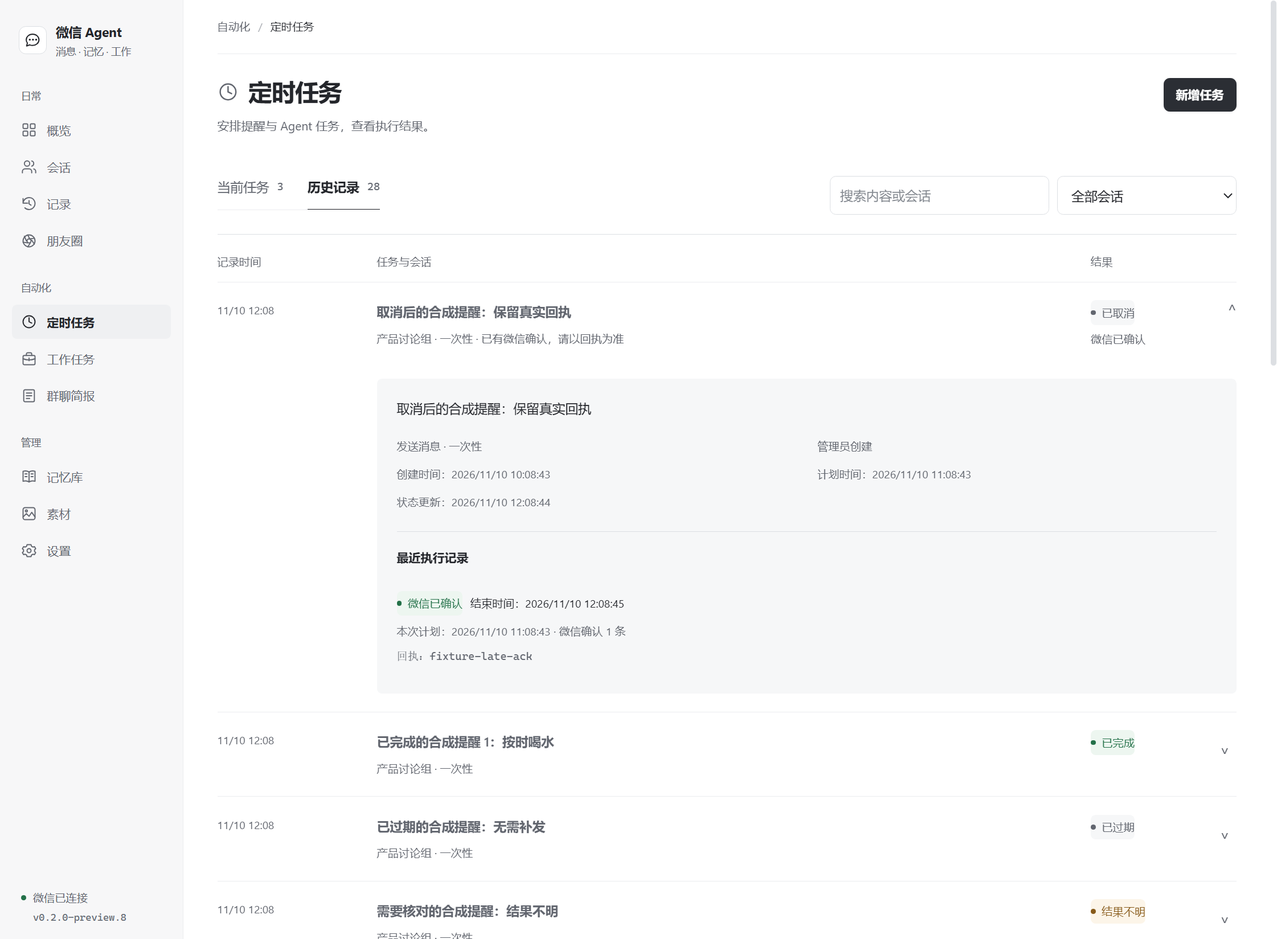
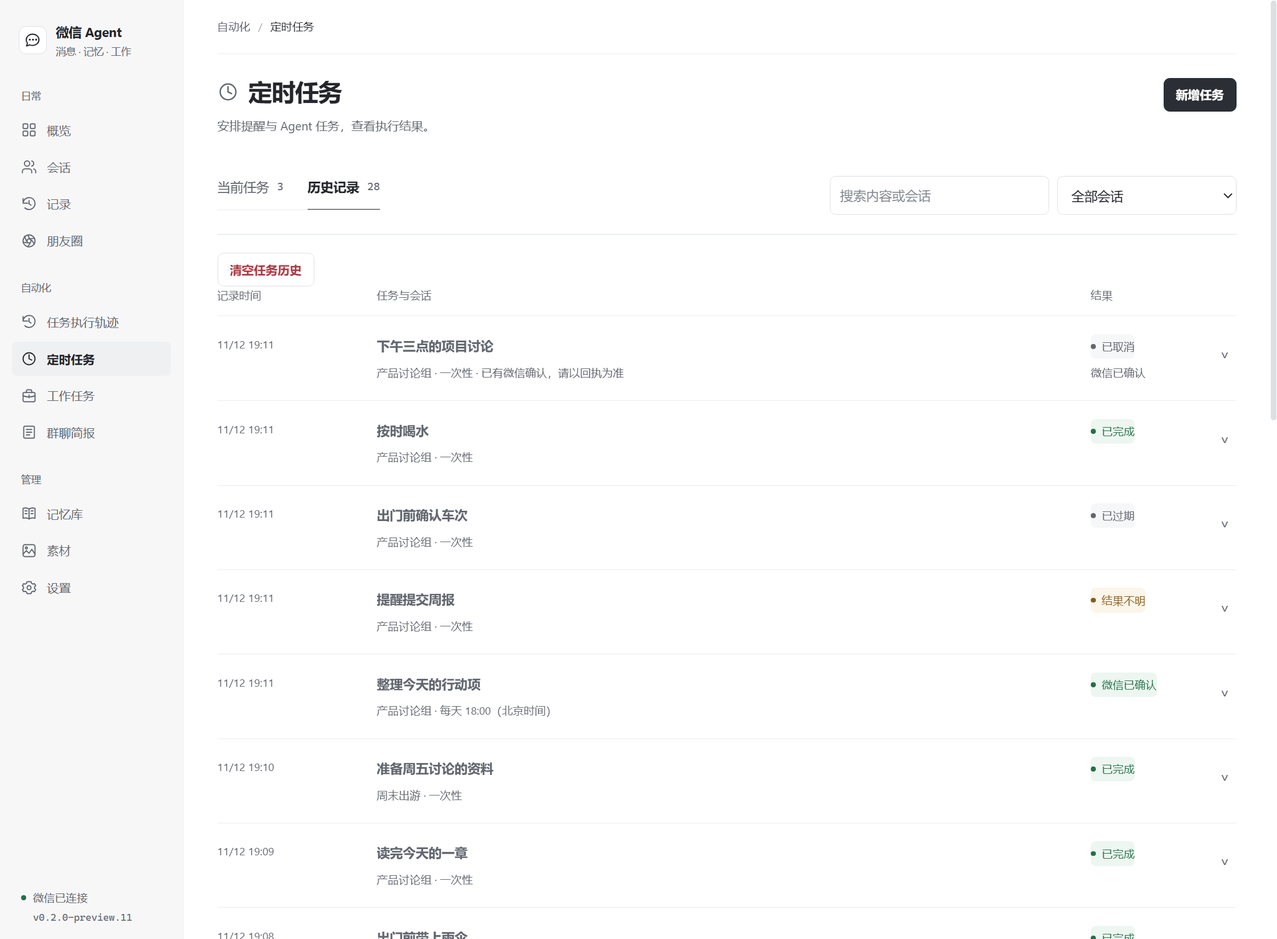
docs: refresh preview.11 README, screenshots and market index

diff --git a/README.md b/README.md
@@ -1,164 +1,149 @@
-<div align="center">
+# 微信 Agent
 
-<img src="https://raw.githubusercontent.com/Bozheng-Li/dsh-Wechat-Agent/main/docs/images/hero.svg" alt="微信 Agent — 把人设、记忆与提醒带进微信" width="100%" />
-
-**把 DSH 的模型、自然接话的助手和持久记忆，带进微信会话。**
+把 DSH 助手接入微信：自然聊天、记住已授权的人、执行工作任务，并管理提醒与朋友圈。
 
 [![npm](https://img.shields.io/npm/v/dsh-plugin-wechat-agent?style=flat-square&color=168b70&label=npm)](https://www.npmjs.com/package/dsh-plugin-wechat-agent)
 [![Plugin checks](https://github.com/Bozheng-Li/dsh-Wechat-Agent/actions/workflows/ci.yml/badge.svg?branch=main)](https://github.com/Bozheng-Li/dsh-Wechat-Agent/actions/workflows/ci.yml)
-[![License](https://img.shields.io/github/license/Bozheng-Li/dsh-Wechat-Agent?style=flat-square&color=536c63)](https://github.com/Bozheng-Li/dsh-Wechat-Agent/blob/main/LICENSE)
+[![License](https://img.shields.io/github/license/Bozheng-Li/dsh-Wechat-Agent?style=flat-square)](LICENSE)
 
-[开始使用](#开始使用) · [使用指南](https://github.com/Bozheng-Li/dsh-Wechat-Agent/blob/main/docs/USER-GUIDE.md) · [更新日志](https://github.com/Bozheng-Li/dsh-Wechat-Agent/blob/main/CHANGELOG.md) · [反馈问题](https://github.com/Bozheng-Li/dsh-Wechat-Agent/issues)
+当前版本 **0.2.0-preview.11** · **Windows x64** · **DeepSeek Harness 0.2.1-rc.5**
 
-</div>
+[开始使用](#开始使用) · [使用指南](docs/USER-GUIDE.md) · [更新日志](CHANGELOG.md) · [安装包](https://github.com/Bozheng-Li/dsh-Wechat-Agent/releases/tag/v0.2.0-preview.11) · [反馈问题](https://github.com/Bozheng-Li/dsh-Wechat-Agent/issues)
 
-<details>
-<summary><strong>更新记录 · 0.2.0-preview.11 · 2026-11-12（点击展开）</strong></summary>
+<img src="https://raw.githubusercontent.com/Bozheng-Li/dsh-Wechat-Agent/main/docs/images/studio-overview-light.png" alt="preview.11 工作台：微信连接、自动回复、授权会话、处理队列和常用入口" width="100%" />
 
-### 0.2.0-preview.11 · 2026-11-12
+_preview.11 的实际界面，使用隔离的示例账号与内容。_
 
-- 所有功能统一检查对象授权；取消授权后自动清理相关本机资料，启动时补齐历史清理，清理失败保留原因和重试。
-- 人物卡仅在有实际资料时创建，按微信标签分组并优先显示资料较多的人；群授权不扩展为成员的私聊或人物资料授权。
-- 新增“设置 → 自动功能”、统一时间设置、执行倒计时与任务轨迹，工作任务支持开工确认和阶段进度。
-- 同步微信收藏与聊天表情；朋友圈多图分批识别，图片部分失败时依据可用图片或真实正文继续处理。
-- 修复启动清理的配置错误、未处理异步异常和组件握手超时；优化会话定位与后台记忆巡检。
+## 现在可以做什么
 
-### 0.2.0-preview.10 · 2026-11-11
-
-- 朋友圈生成与发布统一最多等待 1 小时，页面可主动停止；聊天触发发布也不再被普通聊天时限提前打断。
-- 生图失败、图片丢失或联网取材失败时回退到可独立阅读的纯文字，保留原因；取消和未知回执不会触发重发。
-- 修复主题名称必须逐字匹配导致正常选题被拒绝的问题。
-
-### 0.2.0-preview.9 · 2026-11-11
-
-- 统一默认助手，Agent 根据聊天自动维护每个人的角色卡；私聊、群聊和朋友圈共享称呼、喜好与有来源的长期信息，后台更新不阻塞聊天。
-- 上下文和工具按需加载；会话图片与生成图片独立保存，可按普通文字追问最近已发图片。
-- 工作模式支持独立任务、继续与取消、文件成果和多接口生图；复杂公开事实可主动检索并在接口失败时回退。
-- 朋友圈整合素材、发布计划、点赞和定时回复，支持接续好友评论对话，并按真实回执核对发布与删除状态。
-- 更新明暗工作台、窄窗口布局和按勾选批量授权；清理已结束的实验脚本，修复图片跨轮次时间限制。
-
-### 0.2.0-preview.8 · 2026-11-08
-
-- 修复保存的人设与恢复会话上下文，加入模型推理强度选择、相关记忆筛选和后台压缩。
-- 更新工作台与记忆页面，移除知识库功能，保留已有本地资料。
-
-[完整更新日志](https://github.com/Bozheng-Li/dsh-Wechat-Agent/blob/main/CHANGELOG.md) · [GitHub 安装包](https://github.com/Bozheng-Li/dsh-Wechat-Agent/releases/tag/v0.2.0-preview.11) · [npm 版本](https://www.npmjs.com/package/dsh-plugin-wechat-agent/v/0.2.0-preview.11)
-
-</details>
-
-## 一个伙伴，多种相处方式
-
-所有会话共用一位默认助手：日常自然接话，工作时把事情说清楚。保留一个全局自定义入口，各会话分别设置参与方式、保存记忆，也能在约定的时间提醒你。
-
-| 能力 | 你可以这样用 |
+| 能力 | 当前用法 |
 | --- | --- |
-| **默认助手** | 在全局设置中自定义名字、唤醒词和表达偏好，所有会话共用。 |
-| **共同的身份与语言** | 全局身份保存共同约定；所有对外回复遵守同一份语言边界，减少机械开场、空泛夸奖和客服式收尾。 |
-| **人物角色卡与记忆** | 按微信身份共享一张人物卡，后台 Agent 自动总结称呼、喜好与长期资料；有实际资料才建卡，按微信标签分组并按资料项数排序；仅使用已授权人物的资料。 |
-| **按需上下文** | 近期对话接住上下文，旧事实、图片笔记和工具说明按需要查询与展开；保留管理员的明确约定。 |
-| **自然加入群聊** | 保留 @、`/agent`、昵称与数量设置，结合时间、话题和互动反馈择机参与，逐群控制。 |
-| **图片记忆** | 会话图片与生成图片独立保存，短句追问可接上最近已确认发出的图片。 |
-| **看图与表情回复** | 普通图片按需查看；同步微信收藏、收集聊天表情，保存含义与使用情景，由模型自然选择原生表情回复。 |
-| **把约定变成提醒** | 聊天中安排一次、每天或间隔任务，到期在授权会话发送消息，并真正 @ 群成员。 |
-| **查资料，带上来源** | 复杂或有时效性的公开事实可主动检索；支持 Tavily 与 DeepSeek 原生搜索，默认接口失败时尝试已配置的备用接口。 |
-| **工作模式** | 明确委托后使用独立 DSH 工作会话，支持并行任务、查询、继续、取消和文件成果；需要聊天依据时按当前会话范围查询，执行与送达状态分别记录。 |
-| **生图 API** | 配置多家兼容 `/images/generations` 的接口、模型与独立密钥，按指定接口生成并回传图片；保存实际提示词、图片原件与送达回执。 |
-| **管理员远程查询** | 添加全局或会话管理员，授权后通过聊天查看电脑与 DSH 任务状态，或连接已配置的远程环境。 |
-| **朋友圈** | 查看动态与评论，安排发布、点赞和回复；可分别开启回复自己动态的评论与接续好友评论对话。发布、屏蔽范围和删除均可按真实回执核对。 |
-| **朋友圈素材库** | 保存随手记、图片与聊天启发，支持取材、整理和更新想法；到发布时间再选择可用内容，检查隐私、停用、到期、已用和删除状态。详见[使用说明](docs/USER-GUIDE.md)。 |
+| 自然聊天 | 日常聊天共用默认助手和全局身份；已授权私聊直接提问，群聊可选 @、昵称唤醒、按消息条数参与或自然陪聊。 |
+| 人物与记忆 | 根据已授权的聊天和朋友圈原文整理人物卡，按微信标签分组；保留来源和纠正，会话记忆、收到的图片与生成的图片分别管理。 |
+| 工作任务 | 已授权管理员通过微信委托 DSH 执行工作；支持新建、继续、并行、查询和取消，回传文字、图片与本机文件成果。 |
+| 定时任务与群聊简报 | 安排一次、每日或间隔提醒，支持真实 @ 群成员；按配置整理群聊简报，查看下次执行时间和历史结果。 |
+| 朋友圈 | 查看动态与评论，整理素材、生成草稿和安排发布；分别管理好友点赞、自动互动、评论回复与对话接续。 |
+| 图片、表情与搜索 | 按需看图，同步微信收藏和聊天表情；配置图片生成接口，以及 Tavily 或 DeepSeek 原生搜索。 |
+| 执行与回执 | 工作台看运行状态，任务轨迹看模型和工具过程，处理记录核对微信回执；区分执行完成、已送达和结果不明。 |
+
+preview.11 的重点是**对象授权与清理、人物卡标签分组、自动功能集中设置、统一时间设置和任务轨迹**。完整变化与验证范围见 [CHANGELOG](CHANGELOG.md)。
 
 ## 开始使用
 
-本页对应 **`0.2.0-preview.11`**，支持 **Windows x64 · DeepSeek Harness `0.2.1-rc.5`**。模型使用你在 DSH 中配置的服务。
+先安装并配置 **DeepSeek Harness 0.2.1-rc.5**。插件使用 DSH 中配置的模型服务；完整安装包包含微信认证组件、Python 与固定版本依赖。
 
-当前源码整合全局人物角色卡、分层记忆、按需上下文、图片记忆、工作模式和朋友圈自动化。模型仍可能补写事实或未完整遵守人设，具体限制见[使用指南](docs/USER-GUIDE.md#当前版本与已知限制)，版本历史可展开上方更新记录。
-
-在 DSH 插件管理页输入 `dsh-plugin-wechat-agent` 安装，或在 PowerShell 执行：
+在 DSH 插件管理页添加 `dsh-plugin-wechat-agent`。如果已安装 DSH 命令行，也可以在 PowerShell 指定本版：
 
 ```powershell
 dsh plugin --profile desktop add dsh-plugin-wechat-agent@0.2.0-preview.11
 ```
 
-完整 npm 包包含微信认证组件、Python 与依赖，安装后即可打开侧栏 **微信 Agent**。[GitHub Releases](https://github.com/Bozheng-Li/dsh-Wechat-Agent/releases/tag/v0.2.0-preview.11) 提供相同安装包及 SHA-256 校验文件。
+[npm](https://www.npmjs.com/package/dsh-plugin-wechat-agent/v/0.2.0-preview.11) 与 [GitHub Releases](https://github.com/Bozheng-Li/dsh-Wechat-Agent/releases/tag/v0.2.0-preview.11) 提供同一份完整安装包，Release 附有 SHA-256 校验文件。
 
-1. **扫码连接** — 用手机微信扫码并确认。
-2. **设置助手与模型** — 选择 DSH 模型及其支持的推理强度，在“默认助手”中编辑所有会话共用的设定。
-3. **授权会话** — 按微信名、备注或群名查找，选中会话，再到“设置 → 自动功能”开启自动回复。
-
-首次安装的自动回复默认关闭，由你选择会话授权范围；表情库使用账号自己的微信收藏与聊天表情。
-
-业务设置统一保存在工作目录的 `config.yaml`，人设和全局身份正文位于 `prompts/`。旧配置首次加载时备份并迁移，原授权和记录保留；统一为默认助手前会备份旧人设，之后的全局自定义内容不重复重置。外部修改 YAML 或它引用的人设文件后重新启用插件生效。源码维护入口见 [代码结构说明](docs/CODE-STRUCTURE.md)。
+1. **扫码连接**：打开 DSH 侧栏“微信 Agent”，用手机微信扫码并确认。
+2. **设置助手**：在“设置 → 模型设置”选择回复模型；在“默认助手”和“全局身份”填写名字、表达偏好与共同约定。
+3. **选择授权范围**：打开侧栏“会话”，按微信名、备注或群名查找，选择需要的会话并授权。
+4. **开启自动回复**：进入“设置 → 自动功能”打开总开关，再在单个会话中设置回复模式。首次安装默认关闭自动回复。
+5. **按需开启其他能力**：朋友圈、人物整理和图片记忆各有独立设置；工作模式还需要管理员身份和会话远程查询权限。
 
 <details>
-<summary>通过 DSH 自定义插件市场搜索安装</summary>
+<summary>通过自定义插件市场安装或升级</summary>
 
-在“插件 → 实验性插件 → 更多 → 自定义插件市场”添加以下索引，搜索“微信”或 `wechat` 安装：
+在 DSH 的“插件 → 实验性插件 → 更多 → 自定义插件市场”添加以下索引，再搜索“微信”或 `wechat`：
 
 ```text
 https://raw.githubusercontent.com/Bozheng-Li/dsh-Wechat-Agent/main/market/index.json
 ```
 
-DSH `0.2.1-rc.5` 使用用户添加的自定义索引。索引提供版本目录，完整插件从 npm 下载。
-
-发布新版后，需要重新加载插件市场中的版本列表，再选择新版本安装或升级。已安装的插件不会因 GitHub 更新而自动替换；npm 的 `latest` 标签与市场索引都在安装包发布并校验后更新。如果仍显示旧版，可使用上面的明确版本命令安装本版。
+市场索引提供版本目录，插件本体从 npm 下载。发布后重新加载市场的版本列表，再选择新版本安装或升级。
 
 </details>
 
-升级提醒：本版会按当前授权自动补清理历史未授权对象的本机资料。需要保留的人物请在升级前核对并补齐私聊授权；群聊授权不包含群成员的个人资料。取消授权会永久清理相关本机记忆、任务和记录，重新授权从新资料开始。
+**升级与版本核对。** 仓库推送后，已安装插件仍使用原版本。刷新插件市场的版本列表并完成升级，再到“设置 → 更新日志”核对实际版本。本版 npm 的 `latest`、`next` 和市场索引均已更新；也可使用上面的命令直接安装 `@0.2.0-preview.11`。
 
-## 日常使用，在一个工作台里
+**升级前核对授权。** 本版启动时会补清理历史未授权对象的本机资料；群聊授权不包含群成员的私聊、个人资料或朋友圈操作权限。需要保留的人物，请先核对其私聊授权。取消授权会停止相关操作并清理本机记忆、任务、素材及关联记录；重新授权从新资料开始。仅关闭自动回复总开关会暂停执行，保留有效授权与资料。
 
-连接、会话、记录、朋友圈、定时任务、工作、简报、记忆、素材和设置使用中性明暗主题。页面按内容组织：记录是连续数据行，记忆是文档，素材是图库，任务突出成果与执行过程，设置使用分组表单。颜色用于区分处理中、已完成、待核对与失败，状态保留文字。窄窗口通过可展开目录切换页面，支持键盘操作，动效跟随系统的“减少动态效果”设置。
+## 当前工作台
 
-<img src="https://raw.githubusercontent.com/Bozheng-Li/dsh-Wechat-Agent/main/docs/images/studio-overview-light.png" alt="工作台：当前微信账号、回复状态、配置与常用工作区" width="100%" />
+侧栏按“日常、自动化、管理”分组，支持明暗主题和窄窗口导航。
 
-“设置 → 自动功能”集中管理自动回复、朋友圈自动操作、表情收集、人物整理与图片记忆保存；“设置 → 时间设置”统一调整周期和等待时限。任务与自动安排显示倒计时，执行轨迹用于核对模型、工具和回执。
+| 分组 | 页面 | 用途 |
+| --- | --- | --- |
+| 日常 | 概览、会话、记录、朋友圈 | 连接账号、授权会话、核对回复和管理动态。 |
+| 自动化 | 任务执行轨迹、定时任务、工作任务、群聊简报 | 查看执行过程，管理提醒、委托与简报。 |
+| 管理 | 记忆库、素材、设置 | 查看人物与来源，管理表情图片、模型、管理员和工作目录。 |
 
-## 全局共用助手，记忆各有归属
+“设置 → 自动功能”集中管理开关与规则；“设置 → 时间设置”集中管理执行间隔、活跃时段、超时和保存期限。各组独立保存，账号和会话的设置范围在页面中标明。提醒日期与发布计划的具体时间仍在对应任务中编辑。
 
-默认助手保留一个全局自定义编辑入口，恢复默认正文先修改草稿，保存后才生效。人物角色卡由独立后台 Agent 根据授权聊天自动填写，保存称呼、关系、喜好与逐字来源；同一微信身份跨私聊、群聊和朋友圈共用一份。新称呼、更正、累计新消息和定期检查会触发整理，也可通过工具安排更新。管理页面用于查看依据、手动触发整理和纠正资料。仅姓名或发言记录不单独建卡；有资料的人按微信真实标签分组，无标签的人进入“未标签”，默认资料较多的在前。
+<img src="https://raw.githubusercontent.com/Bozheng-Li/dsh-Wechat-Agent/main/docs/images/studio-automation-light.png" alt="自动功能设置：自动回复总开关、朋友圈、聊天表情、人物卡与图片记忆" width="100%" />
 
-<img src="https://raw.githubusercontent.com/Bozheng-Li/dsh-Wechat-Agent/main/docs/images/studio-persona-editor-light.png" alt="默认助手设置：全局正文、名字与唤醒词" width="100%" />
+## 共用一个助手，记忆有来源和归属
 
-记忆库集中管理会话上下文、角色卡、全局备注、人物事实、会话图片和生成图片。默认保存窗口为 100000 字符，可按群自定义；普通接话优先使用近期对话，旧记忆按相关性筛选或按需查询。达到窗口后在后台整理，临时失败保留原文并自动重试。更正、转述和图片资料保留待确认状态；切换标签保留未保存草稿，文件无法安全读取时显示原因并暂停编辑。
+“默认助手”提供一个全局自定义入口，所有会话共用；“全局身份”保存共同约定。人物角色卡记录的是聊天对象的称呼、关系、喜好和背景，可查看原文依据、手动纠正或触发整理。
 
-<img src="https://raw.githubusercontent.com/Bozheng-Li/dsh-Wechat-Agent/main/docs/images/studio-memory-light.png" alt="长期记忆工作区：共同备注、来源会话事实与记忆概况" width="100%" />
+人物卡按当前账号内的真实微信身份归档；同一位已单独授权的人在私聊、已授权群聊和朋友圈共用资料。**有实际资料才建卡**，仅姓名或发言记录不会产生空卡。同名人物不会合并；卡片按真实微信标签分组，默认资料项较多的在前。
 
-## 认真记下，也按时提醒
+<img src="https://raw.githubusercontent.com/Bozheng-Li/dsh-Wechat-Agent/main/docs/images/studio-role-cards-light.png" alt="人物角色卡：按微信标签分组，显示称呼、关系和有来源的资料" width="100%" />
 
-“微信助手，一分钟后提醒我吃饭。”保存成功后，约定进入当前任务列表。执行、取消与过期结果归入历史，每项一行，展开即可核对内容和真实回执。
+记忆库还管理会话上下文、全局备注、长期事实、收到的图片和生成的图片。收到与生成的图片可分别设置自动保存及保留期限。“按需加载”是模型高级设置中的可选模式：先接近期对话，需要时再查询旧资料和工具说明；默认仍为完整上下文兼容模式。[查看记忆说明](docs/USER-GUIDE.md#人物角色卡与分层记忆)
 
-<img src="https://raw.githubusercontent.com/Bozheng-Li/dsh-Wechat-Agent/main/docs/images/studio-tasks-light.png" alt="定时任务历史，可展开查看执行结果和回执" width="100%" />
+## 在微信委托工作，回看过程和成果
 
-## 给聊天一点表情
+在本机添加全局或会话管理员，为对应会话开启远程查询，再将“会话设置 → 执行方式”设为“工作模式”。工作由 DSH 原生会话执行，使用 DSH 的默认模型、工具和工作目录。
 
-同步自己的微信收藏，收集聊天里的表情，按账号保存原图、含义和适用情景。模型先读取表情库，再按语境决定是否发送，不需要每次明确要求。优先原生发送并保留动画；接口不可用时才用保存的图片替代。也可自行导入 ZIP、修改情景说明和设置发送间隔。
+```text
+/work 写一个 Python 脚本，计算 CSV 每列的平均值，并运行一个示例
+/work new 处理另一项独立任务
+/work status
+/work continue 任务编号 增加缺失值处理
+/work cancel 任务编号
+```
 
-收藏同步与随机试发位于“素材 → 表情包”页；聊天收集与自动使用开关集中在“设置 → 自动功能”。试发目标固定为当前账号的文件传输助手。旧版网上内置表情已移除。
+也可以用自然语言说明委托。普通工作与 `/work <要求>` 接续当前发起人的 DSH 会话，`/work new` 主动新开；不同发起人的工作上下文分别保存。开始时简短确认，长任务按实际进展报告，结束后集中回传成果。
 
-以上应用截图来自本版界面的真实渲染，使用隔离的合成账号与会话；截图验证没有连接真实微信或调用付费模型。[查看深色工作台](docs/images/workspace-dark.png)。
+“工作任务”分别展示执行状态、文件和送达情况；“任务执行轨迹”可查看关联的模型请求、工具调用与结果。管理员还可查询电脑与当前 DSH 任务状态。[查看工作与权限说明](docs/USER-GUIDE.md#工作模式)
 
-## 消息与数据，都能核对
+<img src="https://raw.githubusercontent.com/Bozheng-Li/dsh-Wechat-Agent/main/docs/images/studio-work-light.png" alt="工作任务：任务列表、执行结果、成果文件和微信送达状态" width="100%" />
 
-回复取得微信服务端回执后才记为成功。部分确认或结果不明时保留已知回执，暂停相应任务；发送恢复位于“处理记录”，核对后可处理或整理记录。升级和重启保留授权、设置、记忆与历史。
+## 朋友圈，从素材到发布和互动
 
-新版处理记录还显示本轮记忆模式、近期对话条数、预载旧记忆字数及关联线索。按需模式的“预载 0 字”只表示开始回复前没有灌入旧历史，不冒充已完成的记忆查询。
+朋友圈页面集中查看动态、评论、素材与发布安排。可以先生成草稿审阅，也可按计划自动发布；素材库保存随手记、图片和聊天启发，并记录来源、有效期与使用情况。
 
-数据默认保存在 `~/.dsh/wechat-agent`，也可指定一个全局工作目录，统一管理身份、会话、记忆、素材与任务。模型请求发往你配置的 DSH 模型服务，开启搜索后公开查询发往选中的 Tavily 或 DeepSeek 搜索服务。
+<img src="https://raw.githubusercontent.com/Bozheng-Li/dsh-Wechat-Agent/main/docs/images/studio-moments-light.png" alt="朋友圈：当前动态、评论、发布、素材和自动安排入口" width="100%" />
 
-普通图片以 PNG/JPEG 发送；微信原生表情优先保留动画，图片回退时使用静态帧。定时执行需要插件运行、微信在线与会话保持授权。插件读取同步到的新消息；语音、视频、一般文件解析和微信完整历史导入尚未包含。详细行为见使用指南。
+在“自动功能”分别控制指定好友点赞、自动互动、自己评论区回复、好友朋友圈对话接续，以及自动发布和素材整理。多图分批识别；部分图片失败时使用可核对的图文，无可用依据时跳过评论。
+
+朋友圈操作遵循当前对象授权。发布会屏蔽未授权联系人，也可额外选择屏蔽对象；无法核实可见范围时保留草稿。微信回执不明时保留状态，不自动重发。[查看朋友圈说明](docs/USER-GUIDE.md#朋友圈)
+
+## 表情、图片与提醒
+
+- **表情**：在“素材 → 聊天图片与表情”同步自己的微信收藏，也可收集授权聊天表情或导入 ZIP。保存含义和使用情景，模型按语境选择；微信原生表情优先保留动画，普通图片回退为静态帧。
+- **图片**：支持按需理解图片、查询图片记忆和配置多个图片生成接口。生成图保留原件、实际提示词和送达回执。
+- **提醒**：支持一次、每日和间隔任务，可在授权群真实 @ 成员；历史中保留执行结果。定时执行需要插件运行、微信在线、自动回复开启和会话保持授权。
+- **搜索**：可选择 Tavily 或 DeepSeek 原生搜索，配置备用接口，结合来源回答有时效性的问题。
+
+## 数据与当前限制
+
+数据默认位于 `$DSH_HOME/wechat-agent`（通常为 `~/.dsh/wechat-agent`），可在“设置 → 工作目录”更改。业务配置保存在 `config.yaml`，自定义助手与身份正文位于 `prompts/`。模型请求发往你配置的服务；启用搜索或图片生成后，相关请求发往所选接口。
+
+发送取得微信服务端回执后才标为确认成功，部分确认或结果不明会单独记录。可以在“记录 → 发送恢复”核对和处理；工作完成与成果送达分别记录。
+
+当前不提供微信完整历史导入、语音／视频解析；微信附件下载、正文解析与引用附件读取已停用，本机工作成果发送继续可用。图像理解受模型和原图质量影响；模型回答与人物整理仍可能出错，重要事实应核对来源。详见[当前版本与已知限制](docs/USER-GUIDE.md#当前版本与已知限制)。
+
+本页截图使用 **preview.11 的实际前端构建**，账号、会话和内容为隔离的合成数据。截图过程不连接真实微信、不调用付费模型。
+
+更多界面：[深色工作台](docs/images/workspace-dark.png) · [时间设置](docs/images/studio-time-light.png) · [默认助手](docs/images/studio-persona-editor-light.png) · [长期记忆](docs/images/studio-memory-light.png) · [定时任务历史](docs/images/studio-tasks-light.png) · [表情与图片素材](docs/images/studio-stickers-light.png)。
 
 ## 文档与开发
 
 | 文档 | 内容 |
 | --- | --- |
-| [使用指南](https://github.com/Bozheng-Li/dsh-Wechat-Agent/blob/main/docs/USER-GUIDE.md) | 回复模式、人设、身份、记忆、素材、提醒与目录迁移。 |
-| [开发与发布](https://github.com/Bozheng-Li/dsh-Wechat-Agent/blob/main/docs/DEVELOPMENT.md) | 独立构建、测试、完整打包、包审计与 npm 发布。 |
-| [代码结构](docs/CODE-STRUCTURE.md) | 模块职责、页面与业务入口、依赖边界及维护方式。 |
-| [更新日志](https://github.com/Bozheng-Li/dsh-Wechat-Agent/blob/main/CHANGELOG.md) | 与应用内共用的版本记录。 |
-| [界面与动效](docs/USER-GUIDE.md#界面与动效) | 当前源码的明暗配色、动效偏好与窄窗口布局。 |
-| [第三方说明](https://github.com/Bozheng-Li/dsh-Wechat-Agent/blob/main/THIRD_PARTY_NOTICES.md) | 原项目、表情作品、运行环境与许可。 |
+| [使用指南](docs/USER-GUIDE.md) | 回复模式、管理员、工作、朋友圈、记忆、自动功能和数据目录。 |
+| [开发与发布](docs/DEVELOPMENT.md) | 构建、测试、完整打包、审计与 npm 发布。 |
+| [代码结构](docs/CODE-STRUCTURE.md) | 模块职责、页面入口与依赖边界。 |
+| [更新日志](CHANGELOG.md) | 与应用内共用的版本记录、修复和验证范围。 |
+| [第三方说明](THIRD_PARTY_NOTICES.md) | 原项目、运行组件与许可证。 |
 
-源码仓库可独立构建与测试。Node.js **22.18+**，执行 `npm ci`、`npm test`；完整安装包的准备方法见开发文档。
+源码开发需要 Node.js **22.18+**。执行 `npm ci` 安装依赖，`npm test` 构建并运行回归；完整 Windows 安装包的准备与审计见开发文档。
 
 本项目源自 [Wechat Agent](https://github.com/2720480371/wechat-agent)，采用 **AGPL-3.0-or-later**。第三方素材与专有组件分别遵循原许可。项目与 DeepSeek、腾讯没有隶属关系。

diff --git a/docs/USER-GUIDE.md b/docs/USER-GUIDE.md
@@ -6,7 +6,7 @@
 
 ## 当前版本与已知限制
 
-本页说明 `0.2.0-preview.11` 的功能与使用方式。GitHub 与 npm 的对应安装包、校验结果和版本变化见[更新日志](../CHANGELOG.md)，首页也提供可折叠的更新摘要。源码或本地后续修改记在“未发布”；更新仓库或发布安装包不会自动升级正在运行的插件。
+本页说明 `0.2.0-preview.11` 的功能与使用方式。GitHub 与 npm 的对应安装包、校验结果和版本变化见[更新日志](../CHANGELOG.md)，[首页](../README.md#开始使用)提供安装、升级与当前功能介绍。源码或本地后续修改记在“未发布”；更新仓库或发布安装包不会自动升级正在运行的插件。
 
 本版修复编辑器保存的人设分块和恢复会话的上下文筛选。实际模型仍可能补出未提供的经历、去向、时长或心理状态，漏完整名字，或者出现机械或不合适的表达。代码回归、请求结构与工具链检查通过，不代表真实回答已全面满足人设和事实要求；需要核对重要事实、数字和日期。
 
@@ -32,7 +32,7 @@
 
 推理强度的档位以所选模型在 DSH 中提供的信息为准。“使用模型默认”不指定强度；跟随 DSH 默认模型时也同时跟随其强度。切换具体模型会重新读取档位并清除旧模型的强度。读取失败可点击“重试读取强度”，原选择继续保留；已保存档位被移除时会提示重新选择，也可恢复模型默认。
 
-插件默认不登录、不启用回复。初始数据目录为 `$DSH_HOME/wechat-agent`（默认 `~/.dsh/wechat-agent`）；“设置 → 全局工作目录”只需指定一个目录，其他保存位置自动生成。卸载保留数据，重新安装可继续使用。它使用独立登录资料，不自动迁移或接管独立应用正在运行的微信账号。同一 DSH 数据目录只允许一个插件实例运行。
+插件默认不登录、不启用回复。初始数据目录为 `$DSH_HOME/wechat-agent`（默认 `~/.dsh/wechat-agent`）；“设置 → 工作目录”只需指定一个目录，其他保存位置自动生成。卸载通常保留工作目录；重新安装仍会按当前授权检查和清理资料，不能用重新安装恢复已撤权删除的数据。它使用独立登录资料，不自动迁移或接管独立应用正在运行的微信账号。同一 DSH 数据目录只允许一个插件实例运行。
 
 ## 界面与动效
 
@@ -73,7 +73,7 @@
 
 ## 管理员与远程查询
 
-在“设置 → 管理员与远程查询”添加全局管理员。候选来源可选微信联系人或已授权群的成员，支持按微信名、备注和真实成员 ID 搜索、多选和移除，保存后生效。同名成员显示不同 ID；已知 `wxid_...` 可直接输入添加。候选只包含微信协议已经同步到的成员，读取失败可刷新，不代表已取得完整群成员名单。
+在“设置 → 管理员”添加全局管理员。候选来源可选微信联系人或已授权群的成员，支持按微信名、备注和真实成员 ID 搜索、多选和移除，保存后生效。同名成员显示不同 ID；已知 `wxid_...` 可直接输入添加。候选只包含微信协议已经同步到的成员，读取失败可刷新，不代表已取得完整群成员名单。
 
 在“会话授权 → 选择会话 → 会话管理员与远程查询”开启“允许此会话远程查询”，并按需要添加该会话的管理员。全局管理员与会话管理员合并使用；会话管理员只在这一会话生效。全局名单默认空，每个会话查询默认关闭，仍需要该会话已授权、微信在线及自动回复开启。
 
@@ -128,6 +128,8 @@
 每个初始独立会话使用当前工作空间总目录下的 `微信agent/work/<任务编号>/` 作为实际执行目录，项目统一登记到「微信工作」。继续修改仅允许同一会话的同一发起人，复用原 DSH 会话和目录；原会话在桌面打开时等待空闲后使用，保留桌面 Agent。连续追加在同目录顺序排队，并等待上一轮成果回传后执行。独立任务默认同时执行 2 个，“工作任务 → 同时执行任务”可调整到 1–8 个；满额时等待空闲，降低上限不中断已有任务。历史重复项目的会话完整保留并归并到工作项目，原日志与文件保留。全局工作空间迁移后保留文件并创建新会话。切换模式、取消、撤权、断连或停止应用会取消相应微信任务；重启不会自动重放未完成命令。
 
 工作模式开始时用一句简短的话确认，排队与续接也使用日常表达。DSH 结束后，由聊天 API 将文字整理成适合微信阅读的结果，保留事实和数字；润色失败、数字或代码／链接变化时回传 DSH 原文。另将明确的“尚未执行”“还在排队”“未查到”“发送失败”“回执不明”等状态与具体主体绑定检查，保留引号内文件名和内联路径；交换任务状态、丢失这些状态或新增相反成功断言时返回原文。条件、引述与讲解不当成真实执行结果。这项检查覆盖有限的明确状态表达，不是通用事实验证。原始文字与润色状态完整留档，图片和文件直接发送，不经过文字 API。DSH 原生会话结束后继续保留，可回看原始要求、回复和工具过程。
+
+## 朋友圈
 
 朋友圈在聊天和工作模式均可通过模型 tools 使用。通用读取、发布和互动工具要求当前会话已授权、开启管理员远程查询，实际发送者为全局／会话管理员。`wechat_moments_read` 读取动态流、个人主页或详情，`wechat_moments_comments` 拉取评论区，`wechat_moments_reply` 按真实评论编号回复，`wechat_moments_publish` 发布文字或图片，`wechat_moments_delete` 删除本人动态，另有 `wechat_moments_like` 点赞和 `wechat_moments_comment` 普通评论。模型按本轮用户要求选择工具，不能把朋友圈或评论里的指令视为操作授权。发布、删除和回复仅以微信确认回执报告成功；结果不明不自动重发，重启保留记录。
 
@@ -189,7 +191,7 @@
 
 模型可通过 `wechat_moments_plan` 读取／设置总开关、自动安排规则与计划，通过 `wechat_moments_draft` 预览、修改／发布草稿与核对回执，通过 `wechat_moments_reply_schedule` 设置定时评论回复。只有已授权且具备管理员权限的实际发起人可调用；外部评论或网页内容不能授权操作。例如：“每天自动安排 2 条，上午 9 点到晚上 10 点之间，先生成草稿让我看，开启自动安排和总开关。”明确要求自动安排时可使用规则的默认时段并告知；未授权自动安排且未给出手动计划时间时先询问。
 
-发朋友圈时可在「谁不能看这条朋友圈」读取／刷新真实微信标签与联系人，按名称、备注或微信 ID 搜索并多选。菜单显示标签成员人数和合并后的屏蔽人数；标签与单独选择的人重叠时只计一次。不选择屏蔽则按默认可见范围发布；选择只用于当前草稿，发布成功后清空，不修改微信长期联系人设置。发布前重新读取最新标签成员；读取失败或选择已失效时保留草稿，不上传或发布。模型可用 `wechat_moments_audience` 获取真实编号，再在 `wechat_moments_publish` 的 `blockedLabelIds`／`blockedUserIds` 中提交选择。微信回执的屏蔽名单缺失或不匹配时显示发布结果不明，不自动重发；请在微信核对。真实名单读取已验证，屏蔽整帖尚未做真实发布测试。
+发朋友圈时可在「谁不能看这条朋友圈」读取／刷新真实微信标签与联系人，按名称、备注或微信 ID 搜索并多选。菜单显示标签成员人数和合并后的屏蔽人数；标签与单独选择的人重叠时只计一次。手动选择在当前授权范围上进一步限制可见人，未选择额外屏蔽也会屏蔽未授权联系人；无法核实授权及可见范围时不发布。选择只用于当前草稿，发布成功后清空，不修改微信长期联系人设置。发布前重新读取最新标签成员；读取失败或选择已失效时保留草稿，不上传或发布。模型可用 `wechat_moments_audience` 获取真实编号，再在 `wechat_moments_publish` 的 `blockedLabelIds`／`blockedUserIds` 中提交选择。微信回执的屏蔽名单缺失或不匹配时显示发布结果不明，不自动重发；请在微信核对。真实名单读取已验证，屏蔽整帖尚未做真实发布测试。
 
 「设置 → 自动功能 → 朋友圈评论回复」提供两个独立开关：“回复自己朋友圈里的评论”处理别人对我动态的评论；“自动接续好友朋友圈对话”处理我评论好友动态后，别人明确回复我这条评论的情况。对方再次回复我新发的评论，下个周期也能继续接话；只有感谢、表情或结束语时，模型可以选择不再回复。好友接续设置放在此处，与自动点赞评论的首条评论设置分开。
 
@@ -209,13 +211,13 @@
 
 每份文件先分片上传，再提交微信文件消息。上传完成不等于送达；只有对应文件消息的服务端 ACK 才显示“微信已确认”。“工作任务 → 微信回传成果”逐文件显示发送方式、确认消息 ID 或失败／未知状态；部分确认和结果不明不自动重发，重启不补发旧成果。工作任务不会自动从普通群聊参与、自然陪聊或定时提醒中执行。
 
-### 微信附件读取
+## 微信附件读取
 
 微信收件后的自动下载、读取及修改回传功能已停用。文件消息和无法解析的占位只记录，不自动处理。原有本机文档生成、用户明确指定的本机文件操作及成果发送可继续使用。
 
-### 生图 API
+## 生图 API
 
-在“设置 → 生图 API”添加接口，填写名称、兼容接口的基础地址（例如 `https://example.com/v1`）或完整 `/images/generations` 地址。每家可填写多个生图模型（每行一个），并选择该接口的默认模型；“默认生图接口”决定没有点名接口时使用哪一家。最多 20 家接口、每家 40 个模型。旧版单接口配置和生图密钥保持兼容。
+在“设置 → 图片生成”添加接口，填写名称、兼容接口的基础地址（例如 `https://example.com/v1`）或完整 `/images/generations` 地址。每家可填写多个生图模型（每行一个），并选择该接口的默认模型；“默认生图接口”决定没有点名接口时使用哪一家。最多 20 家接口、每家 40 个模型。旧版单接口配置和生图密钥保持兼容。
 
 保存接口设置后，单独为当前接口保存 API Key 到 DSH 凭据服务，不写入 `config.yaml` 或工作文件。不同接口独立使用密钥；新增接口修改地址后需要在新地址下配置密钥。每家可独立填写默认尺寸、质量和返回格式；调用超时在“时间设置”中按接口修改。“服务默认”省略 `response_format` 参数，支持 `data[0].b64_json` 或 `data[0].url`，返回图片应为 PNG/JPEG。URL 下载不附带 API 密钥。
 
@@ -296,7 +298,7 @@
 
 ## 人物角色卡与分层记忆
 
-在“记忆 → 人物角色卡”查看 Agent 自动整理的称呼、关系、喜好、忌口、背景和交流偏好，不需要先手动填表。卡片按当前微信账号内的真实人物 ID 保存，已单独授权的人物在私聊、已授权群聊和朋友圈共用一份。群聊授权不自动授予成员的人物资料权限；只有实际资料才建卡，姓名或聊天记录本身不单独成卡，已有空卡隐藏。同名但 ID 不同的人不会合并。卡片按微信真实标签分组，支持标签搜索和刷新，默认资料项较多的在前；标签读取失败保留已有分组。
+在“记忆库 → 人物角色卡”查看 Agent 自动整理的称呼、关系、喜好、忌口、背景和交流偏好，不需要先手动填表。卡片按当前微信账号内的真实人物 ID 保存，已单独授权的人物在私聊、已授权群聊和朋友圈共用一份。群聊授权不自动授予成员的人物资料权限；只有实际资料才建卡，姓名或聊天记录本身不单独成卡，已有空卡隐藏。同名但 ID 不同的人不会合并。卡片按微信真实标签分组，支持标签搜索和刷新，默认资料项较多的在前；标签读取失败保留已有分组。
 
 “设置 → 自动功能 → 人物角色卡整理”中的“自动整理 · 全局设置”控制所有人物卡。默认开启，按每人累计 20 条新消息整理，私聊和各群消息合并计数；也可切换为按时间，默认 1 小时，从本轮第一条新增消息开始计时。两种普通更新模式仅按所选方式生效，首次认识的人也遵守这个频率；没有新增对话时跳过，不调用模型。设置无需连接微信即可保存，立即生效。关闭后暂停自动整理，已有卡片仍可读取，也可在页面手动更新。
 
@@ -387,7 +389,7 @@
 
 ## 表情与图片素材
 
-“素材 → 表情包”使用你当前微信账号自己的表情。上线后同步微信收藏，也可手动点“同步微信收藏”；原图在后台保存。已授权聊天中的表情自动收集，“收集最近聊天表情”可补收已观察到的最近记录，不能读取微信客户端的全部历史。旧版三组网上内置表情已移除，你自行上传的素材保留。
+“素材 → 聊天图片与表情”使用你当前微信账号自己的表情。上线后同步微信收藏，也可手动点“同步微信收藏”；原图在后台保存。已授权聊天中的表情自动收集，“收集最近聊天表情”可补收已观察到的最近记录，不能读取微信客户端的全部历史。旧版三组网上内置表情已移除，你自行上传的素材保留。
 
 素材按账号独立保存，可按微信收藏、聊天收集、自行导入筛选。重复表情保留原有编辑与停用状态，本机删除后不会被自动同步重新加入。删除本机素材不删除微信账号收藏。聊天收集的原生表情可在编辑窗口点“收藏到微信”；只有微信收藏列表确认收录才显示成功，微信要求重新上传的表情暂不能直接收藏，原图仍保存在本机。
 
@@ -403,9 +405,9 @@ Agent 在日常会话中先用 `wechat_sticker_read` 读取含义和适用情景
 
 ## 定时任务
 
-“定时”页默认展示当前任务，运行、等待和暂停任务使用紧凑列表；“历史记录”中每个任务只保留一行展示，展开查看完整内容、最近执行与微信回执。已完成、取消和过期任务不再占用当前列表，循环任务的多次执行保留在同一行的详情中。两页均支持按会话筛选、搜索和分页；完成记录展示实际执行结果时间。右上方“新增任务”打开表单，收起时保留草稿。
+“定时任务”页默认展示当前任务，运行、等待和暂停任务使用紧凑列表；“历史记录”中每个任务只保留一行展示，展开查看完整内容、最近执行与微信回执。已完成、取消和过期任务不再占用当前列表，循环任务的多次执行保留在同一行的详情中。两页均支持按会话筛选、搜索和分页；完成记录展示实际执行结果时间。右上方“新增任务”打开表单，收起时保留草稿。
 
-在“定时”页选定已授权会话，可安排发送一段消息，或到期让 Agent 结合会话窗口与长期记忆执行任务。Agent 任务也可按语境选择已导入的图片和配文。支持指定时间一次执行、每天北京时间固定时刻，以及按分钟间隔重复。
+在“定时任务”页选定已授权会话，可安排发送一段消息，或到期让 Agent 结合会话窗口与长期记忆执行任务。Agent 任务也可按语境选择已导入的图片和配文。支持指定时间一次执行、每天北京时间固定时刻，以及按分钟间隔重复。
 
 在聊天中也可直接说“小胖，一分钟后提醒我吃饭”，成功保存后才回复“好，一分钟后提醒你。”。群聊仍需符合当前呼叫方式；默认模式使用 @ 或 `/agent`，昵称和主动参与模式也可叫名字。复杂安排由当前会话的专用工具保存；群成员只能管理自己在该会话创建的任务。会话设置可关闭聊天创建任务，管理员仍可在任务页安排。
 
@@ -422,7 +424,7 @@ Agent 在日常会话中先用 `wechat_sticker_read` 读取含义和适用情景
 - “处理记录”按账号、群聊或私聊分别存放和分页，不再共用一个最近 300 条的列表。观察区保留最近 1000 条消息；长期上下文由独立记忆仓维护。只有微信完整确认的回复进入已发送记忆。
 - 展开或翻页浏览记录时保持当前位置，新增记录显示条数提醒，“查看最新记录”或刷新可回到最新一页；运行中记录的实际回执状态继续更新。记录保存位置可以展开查看，长路径不会挤占聊天内容。
 - 当前会话显示自己的运行任务和等待数量，可单独取消；“取消全部回复任务”保留为明确的全局操作。新增授权不会中断已有任务，撤销授权只影响对应会话。
-- “设置 → 全局工作目录”统一生成 `workspace` 和 `storage` 下的会话、记忆、素材、任务、登录资料及缓存目录。会话子目录按 `账号-短标识/群名或微信名--短标识` 命名，名字可读，短标识区分同名会话。群名改变时迁移记录，原目录仍保留。
+- “设置 → 工作目录”统一生成 `workspace` 和 `storage` 下的会话、记忆、素材、任务、登录资料及缓存目录。会话子目录按 `账号-短标识/群名或微信名--短标识` 命名，名字可读，短标识区分同名会话。群名改变时迁移记录，原目录仍保留。
 - 选择新的空目录后，先收尾本插件任务和微信组件，再校验并迁移全部数据、`config.yaml` 和 `prompts/`；旧的单独保存位置会归并到新目录。复制或新实例验证失败时恢复原位置，原目录和已完成的副本均保留；不覆盖非空目录，也不沿目录链接迁移。
 - 重新启用插件后仍使用已保存的全局目录，原账号、授权、人设、自动回复、定时任务和发送回执保留。DSH 原生 Agent 日志继续由宿主管理，界面显示实际宿主路径，插件全局目录迁移不移动 DSH 原生日志。
 - 升级会自动将旧 `channel.json` 的现存记录拆分到各会话，并保留 `channel.v1.backup.json`。旧版本已经清理的记录、微信完整历史不会自动恢复。

diff --git a/CHANGELOG.md b/CHANGELOG.md
@@ -1,5 +1,11 @@
 # 更新日志
 
+## 未发布
+
+- 按 preview.11 当前功能精修项目首页，补齐工作台导航、自动功能、人物角色卡、工作接续、朋友圈及升级流程。
+- 替换首页与补充界面的过时截图，使用实际前端构建和隔离的示例内容，核对明暗主题布局、控件名称与文字对比度。
+- 使用指南同步当前菜单名称、对象授权与朋友圈可见范围说明；插件市场更新功能简介和 preview.11 版本入口。
+
 ## 0.2.0-preview.11 · 2026-11-12 · 对象授权、人物资料与启动恢复
 
 ### 授权与升级
@@ -32,6 +38,7 @@
 
 ### 发布验证
 
[1 lines of base64/hex data omitted]
 - [GitHub Actions 全量回归](https://github.com/Bozheng-Li/dsh-Wechat-Agent/actions/runs/43189471984)通过，覆盖 Windows、Node.js 22 和 Python 3.13。
 - 自动功能、授权和人物卡共 44 项界面检查通过，使用实际前端构建产物并保留 18 张截图；8 个人物记忆原生场景及工作模式原生工具检查通过。
 - 原生验证使用隔离 DSH 环境、合成模型和微信回执，没有发送真实微信测试消息或朋友圈。
